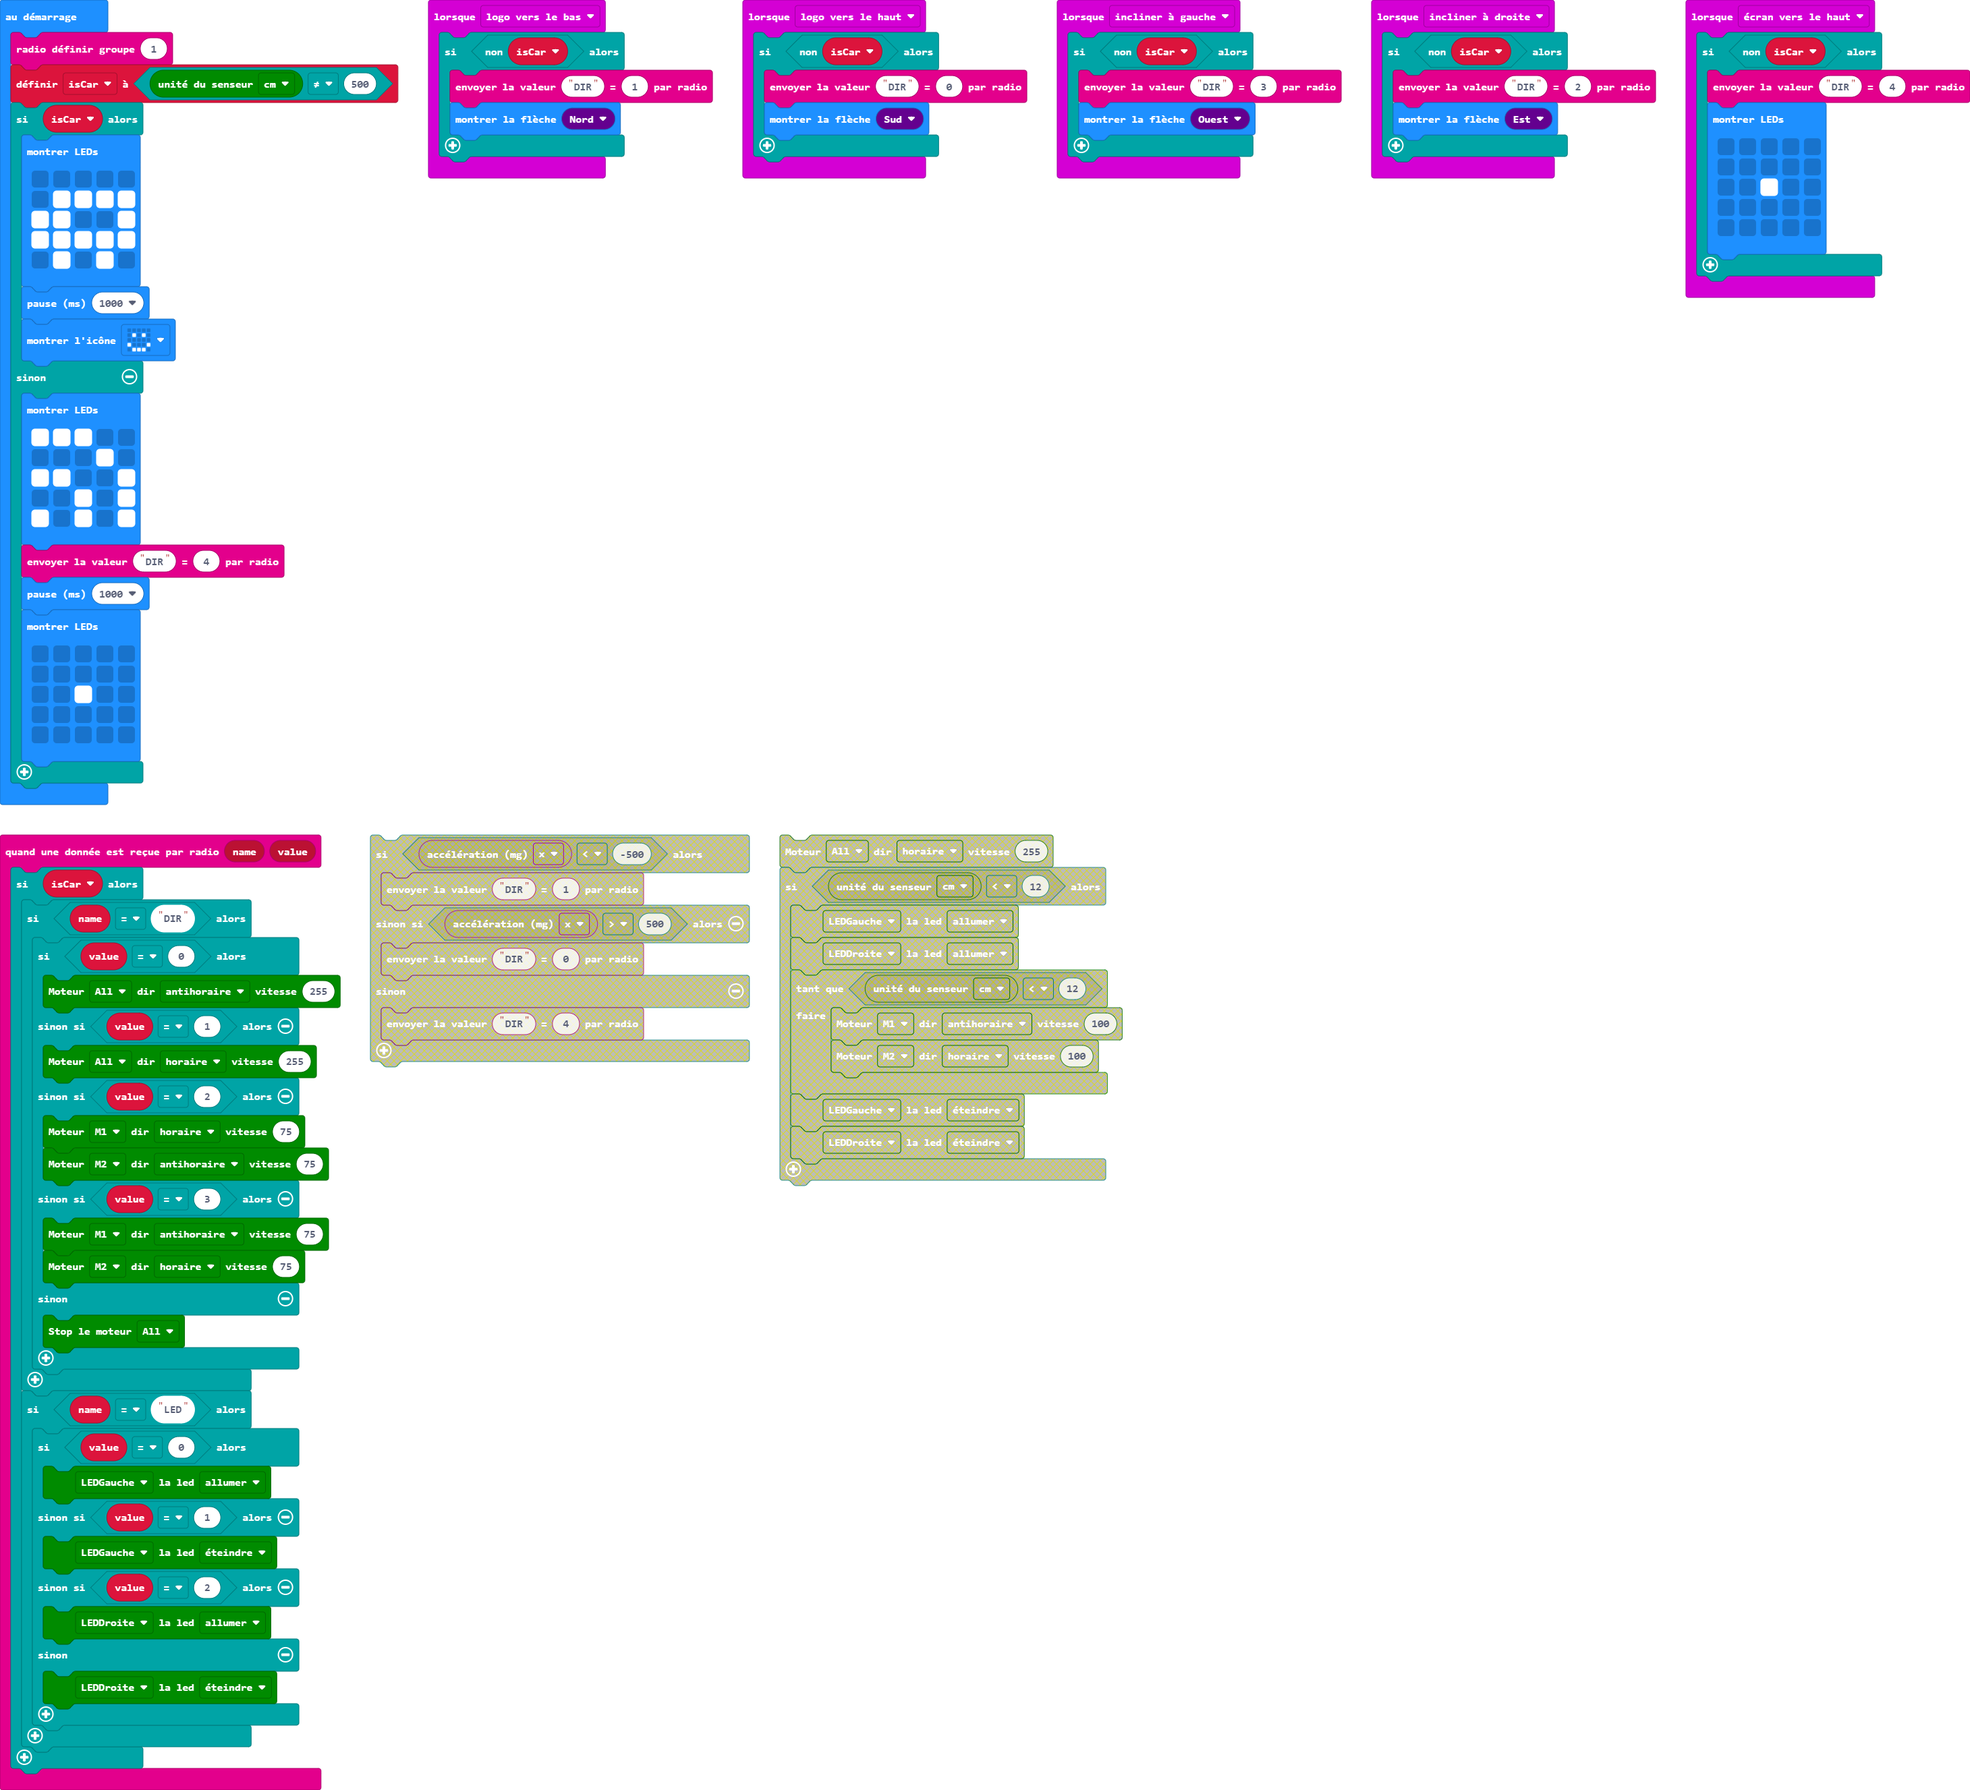
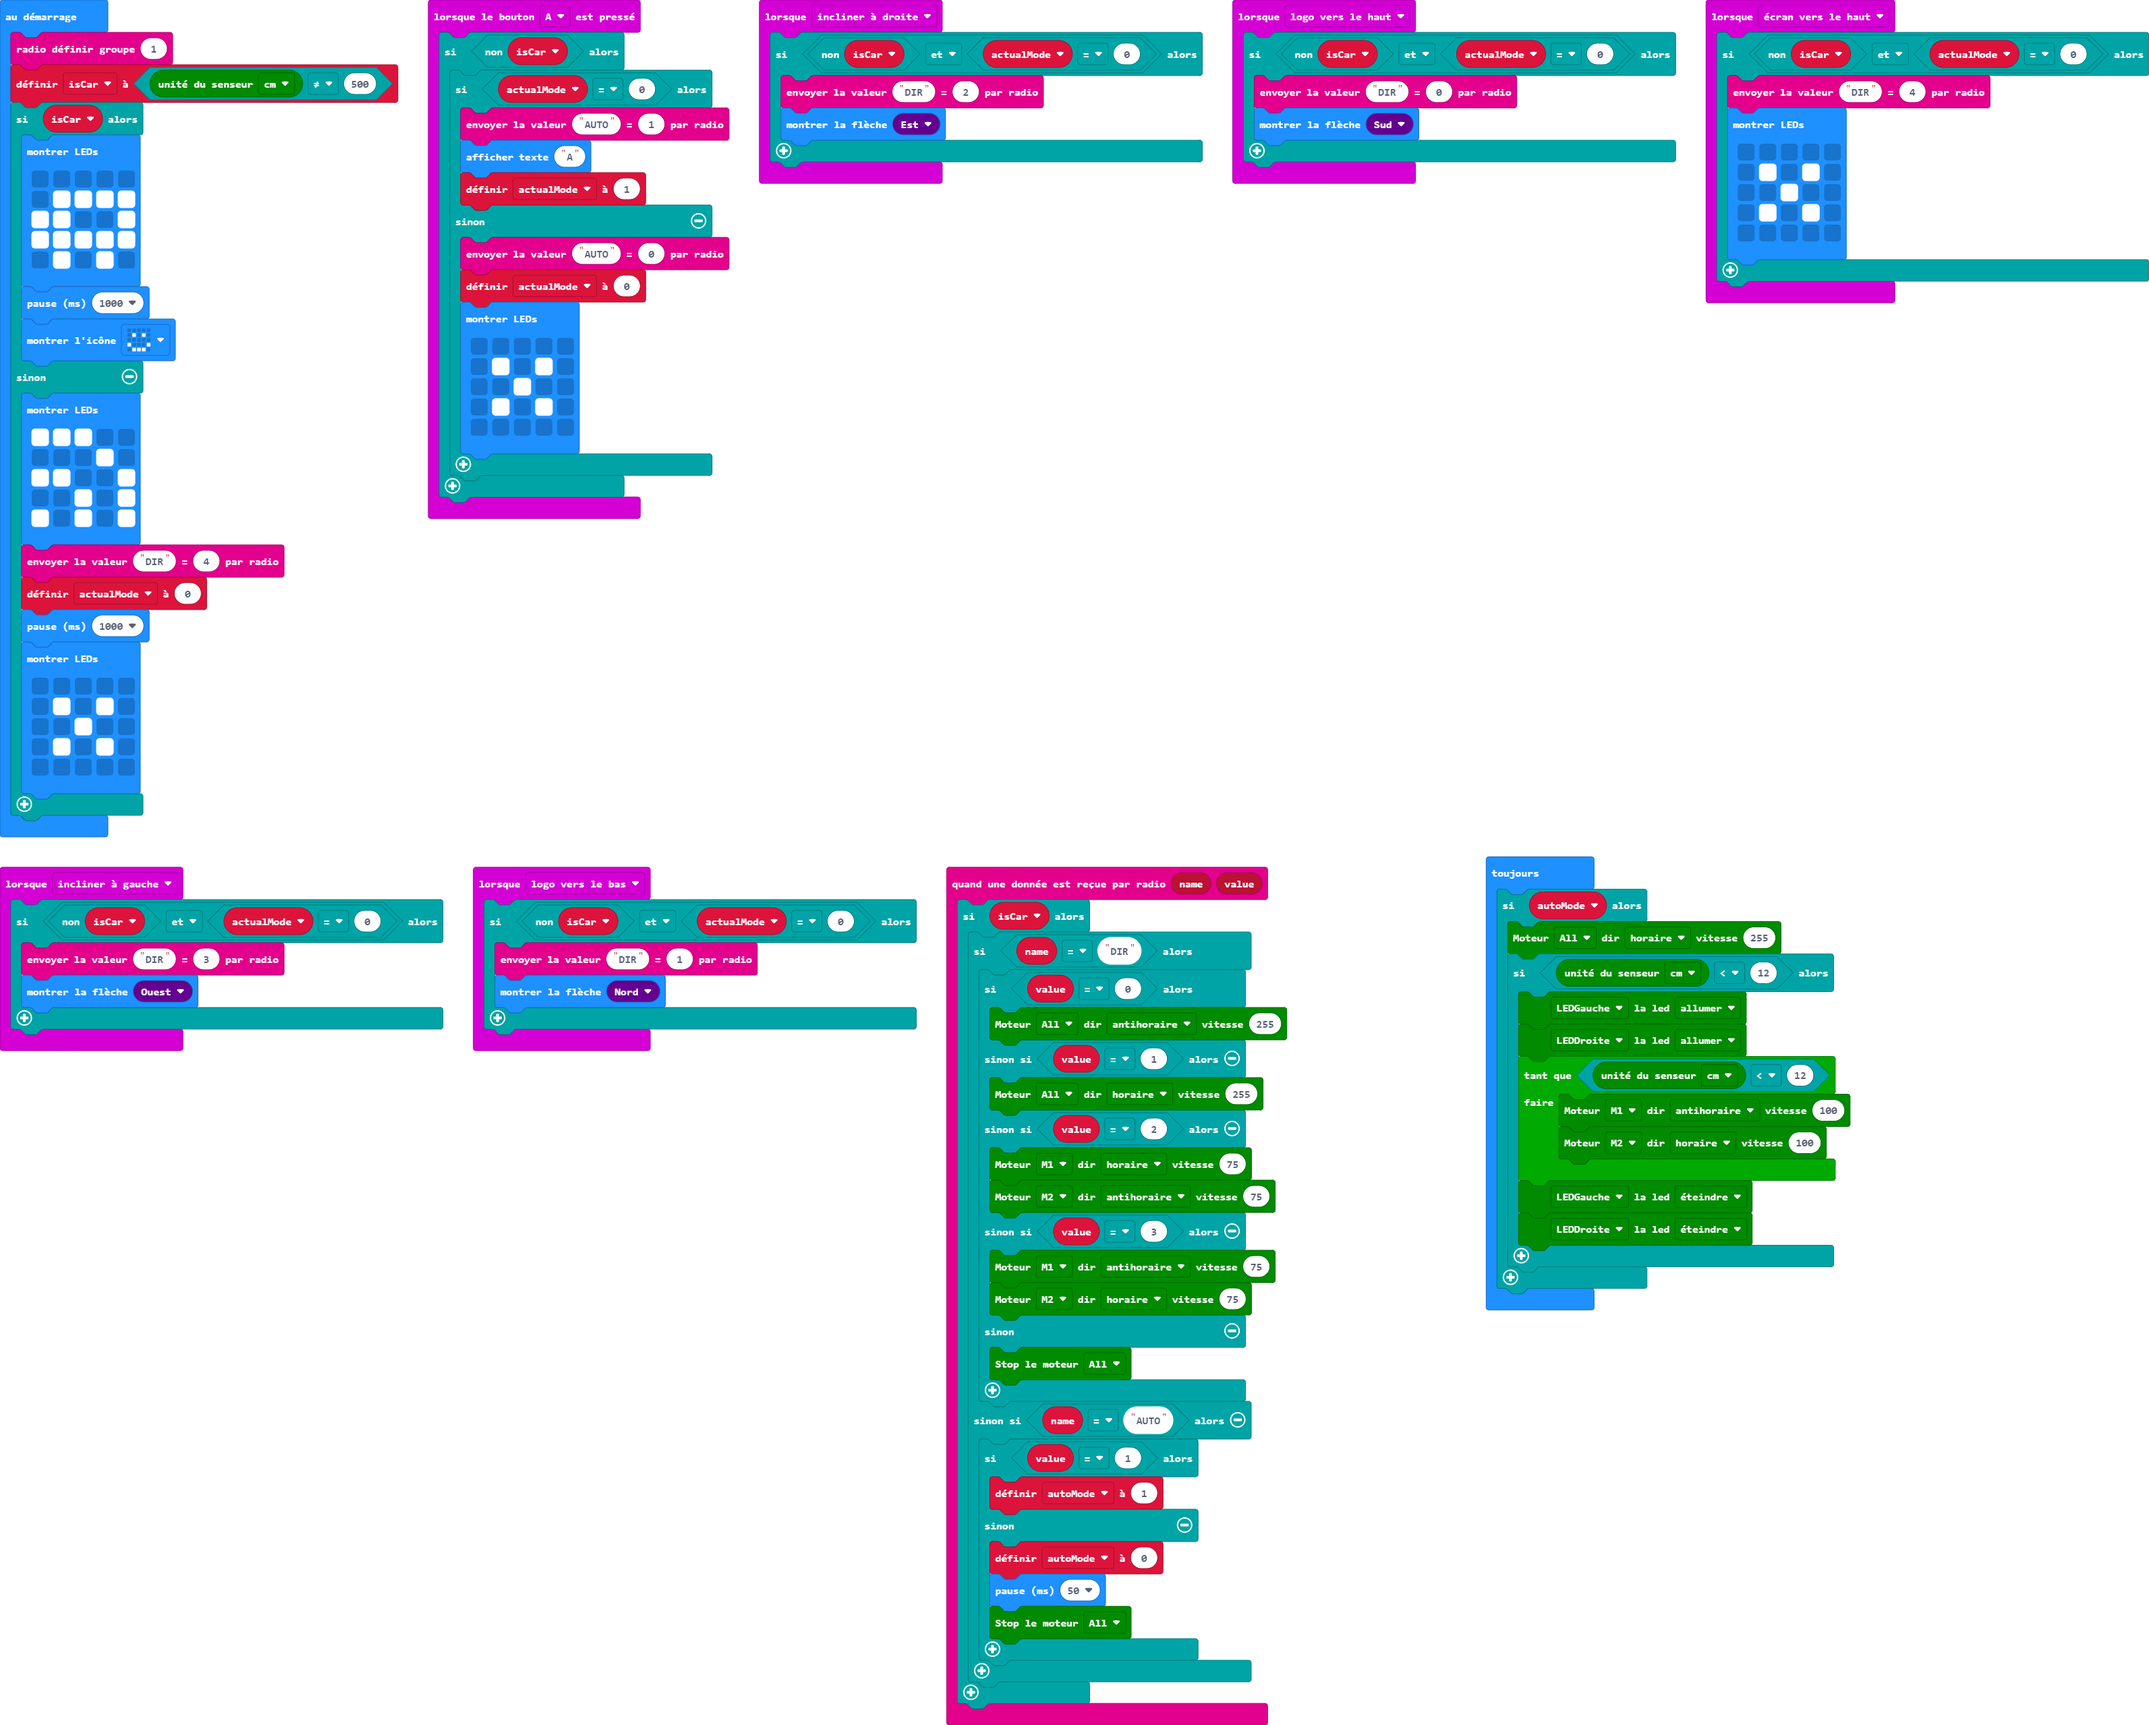
Mise à jour main.blocks, main.ts

diff --git a/main.ts b/main.ts
@@ -1,23 +1,42 @@
 input.onGesture(Gesture.LogoUp, function () {
-    if (!(isCar)) {
+    if (!(isCar) && actualMode == 0) {
         radio.sendValue("DIR", 0)
         basic.showArrow(ArrowNames.South)
     }
 })
-input.onGesture(Gesture.TiltRight, function () {
+input.onButtonPressed(Button.A, function () {
     if (!(isCar)) {
+        if (actualMode == 0) {
+            radio.sendValue("AUTO", 1)
+            basic.showString("A")
+            actualMode = 1
+        } else {
+            radio.sendValue("AUTO", 0)
+            actualMode = 0
+            basic.showLeds(`
+                . . . . .
+                . # . # .
+                . . # . .
+                . # . # .
+                . . . . .
+                `)
+        }
+    }
+})
+input.onGesture(Gesture.TiltRight, function () {
+    if (!(isCar) && actualMode == 0) {
         radio.sendValue("DIR", 2)
         basic.showArrow(ArrowNames.East)
     }
 })
 input.onGesture(Gesture.TiltLeft, function () {
-    if (!(isCar)) {
+    if (!(isCar) && actualMode == 0) {
         radio.sendValue("DIR", 3)
         basic.showArrow(ArrowNames.West)
     }
 })
 input.onGesture(Gesture.LogoDown, function () {
-    if (!(isCar)) {
+    if (!(isCar) && actualMode == 0) {
         radio.sendValue("DIR", 1)
         basic.showArrow(ArrowNames.North)
     }
@@ -38,32 +57,31 @@ radio.onReceivedValue(function (name, value) {
             } else {
                 maqueen.motorStop(maqueen.Motors.All)
             }
-        }
-        if (name == "LED") {
-            if (value == 0) {
-                maqueen.writeLED(maqueen.LED.LEDLeft, maqueen.LEDswitch.turnOn)
-            } else if (value == 1) {
-                maqueen.writeLED(maqueen.LED.LEDLeft, maqueen.LEDswitch.turnOff)
-            } else if (value == 2) {
-                maqueen.writeLED(maqueen.LED.LEDRight, maqueen.LEDswitch.turnOn)
+        } else if (name == "AUTO") {
+            if (value == 1) {
+                autoMode = 1
             } else {
-                maqueen.writeLED(maqueen.LED.LEDRight, maqueen.LEDswitch.turnOff)
+                autoMode = 0
+                basic.pause(50)
+                maqueen.motorStop(maqueen.Motors.All)
             }
         }
     }
 })
 input.onGesture(Gesture.ScreenUp, function () {
-    if (!(isCar)) {
+    if (!(isCar) && actualMode == 0) {
         radio.sendValue("DIR", 4)
         basic.showLeds(`
             . . . . .
-            . . . . .
+            . # . # .
             . . # . .
-            . . . . .
+            . # . # .
             . . . . .
             `)
     }
 })
+let autoMode = 0
+let actualMode = 0
 let isCar = false
 radio.setGroup(1)
 isCar = maqueen.Ultrasonic(PingUnit.Centimeters) != 500
@@ -86,12 +104,28 @@ if (isCar) {
         # . # . #
         `)
     radio.sendValue("DIR", 4)
+    actualMode = 0
     basic.pause(1000)
     basic.showLeds(`
         . . . . .
-        . . . . .
+        . # . # .
         . . # . .
-        . . . . .
+        . # . # .
         . . . . .
         `)
 }
+basic.forever(function () {
+    if (autoMode) {
+        maqueen.motorRun(maqueen.Motors.All, maqueen.Dir.CW, 255)
+        if (maqueen.Ultrasonic(PingUnit.Centimeters) < 12) {
+            maqueen.writeLED(maqueen.LED.LEDLeft, maqueen.LEDswitch.turnOn)
+            maqueen.writeLED(maqueen.LED.LEDRight, maqueen.LEDswitch.turnOn)
+            while (maqueen.Ultrasonic(PingUnit.Centimeters) < 12) {
+                maqueen.motorRun(maqueen.Motors.M1, maqueen.Dir.CCW, 100)
+                maqueen.motorRun(maqueen.Motors.M2, maqueen.Dir.CW, 100)
+            }
+            maqueen.writeLED(maqueen.LED.LEDLeft, maqueen.LEDswitch.turnOff)
+            maqueen.writeLED(maqueen.LED.LEDRight, maqueen.LEDswitch.turnOff)
+        }
+    }
+})
